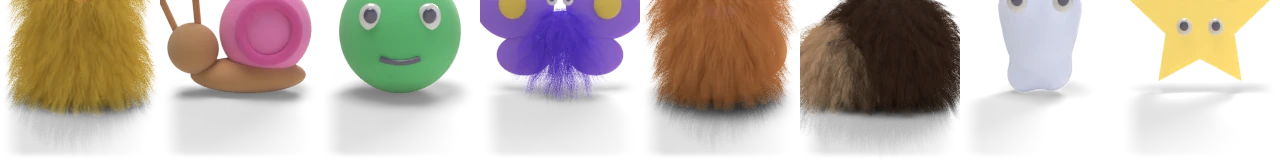
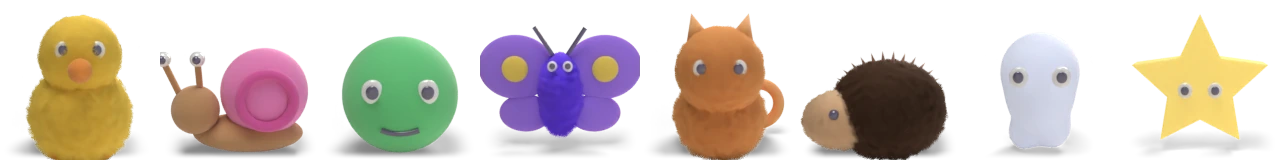
Render Craepets art: egg and petpets (64 samples)
Claude-Session: https://claude.ai/code/session_01WzeCJkuLWnKTQ83ve9KbF9

diff --git a/games/craepets/art/manifest.js b/games/craepets/art/manifest.js
@@ -190,6 +190,8 @@ window.CPArt = {
   "egg": {
    "file": "egg.webp",
    "idfile": "egg-id.webp",
+   "ref": 0.84,
+   "src": "25350b770f3e",
    "tile": [
     320,
     440
@@ -559,6 +561,7 @@ window.CPArt = {
   },
   "petpets": {
    "file": "petpets.webp",
+   "src": "25350b770f3e",
    "tile": [
     160,
     160
